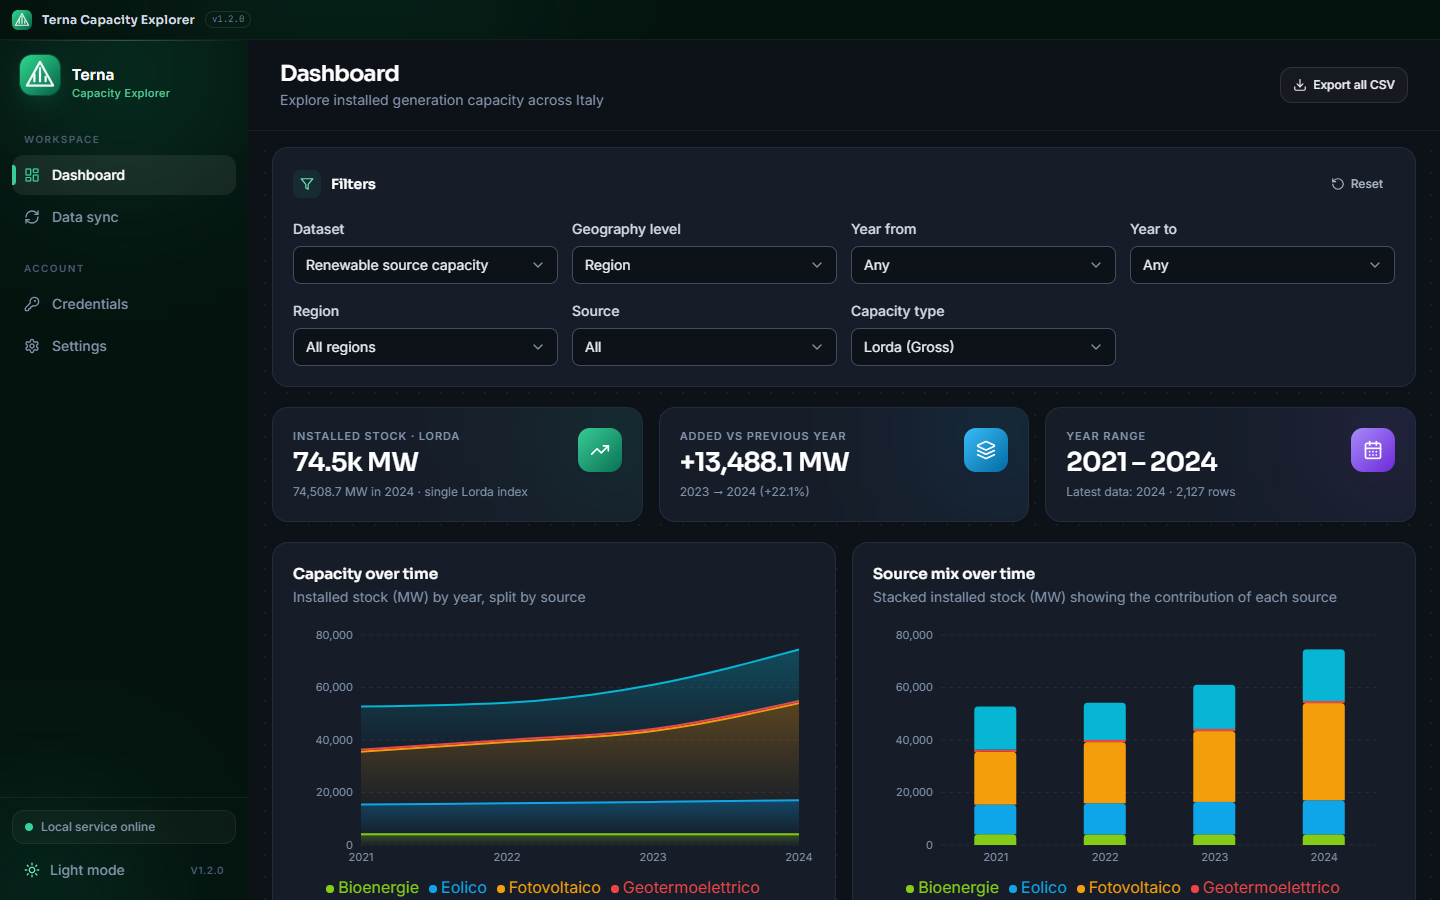
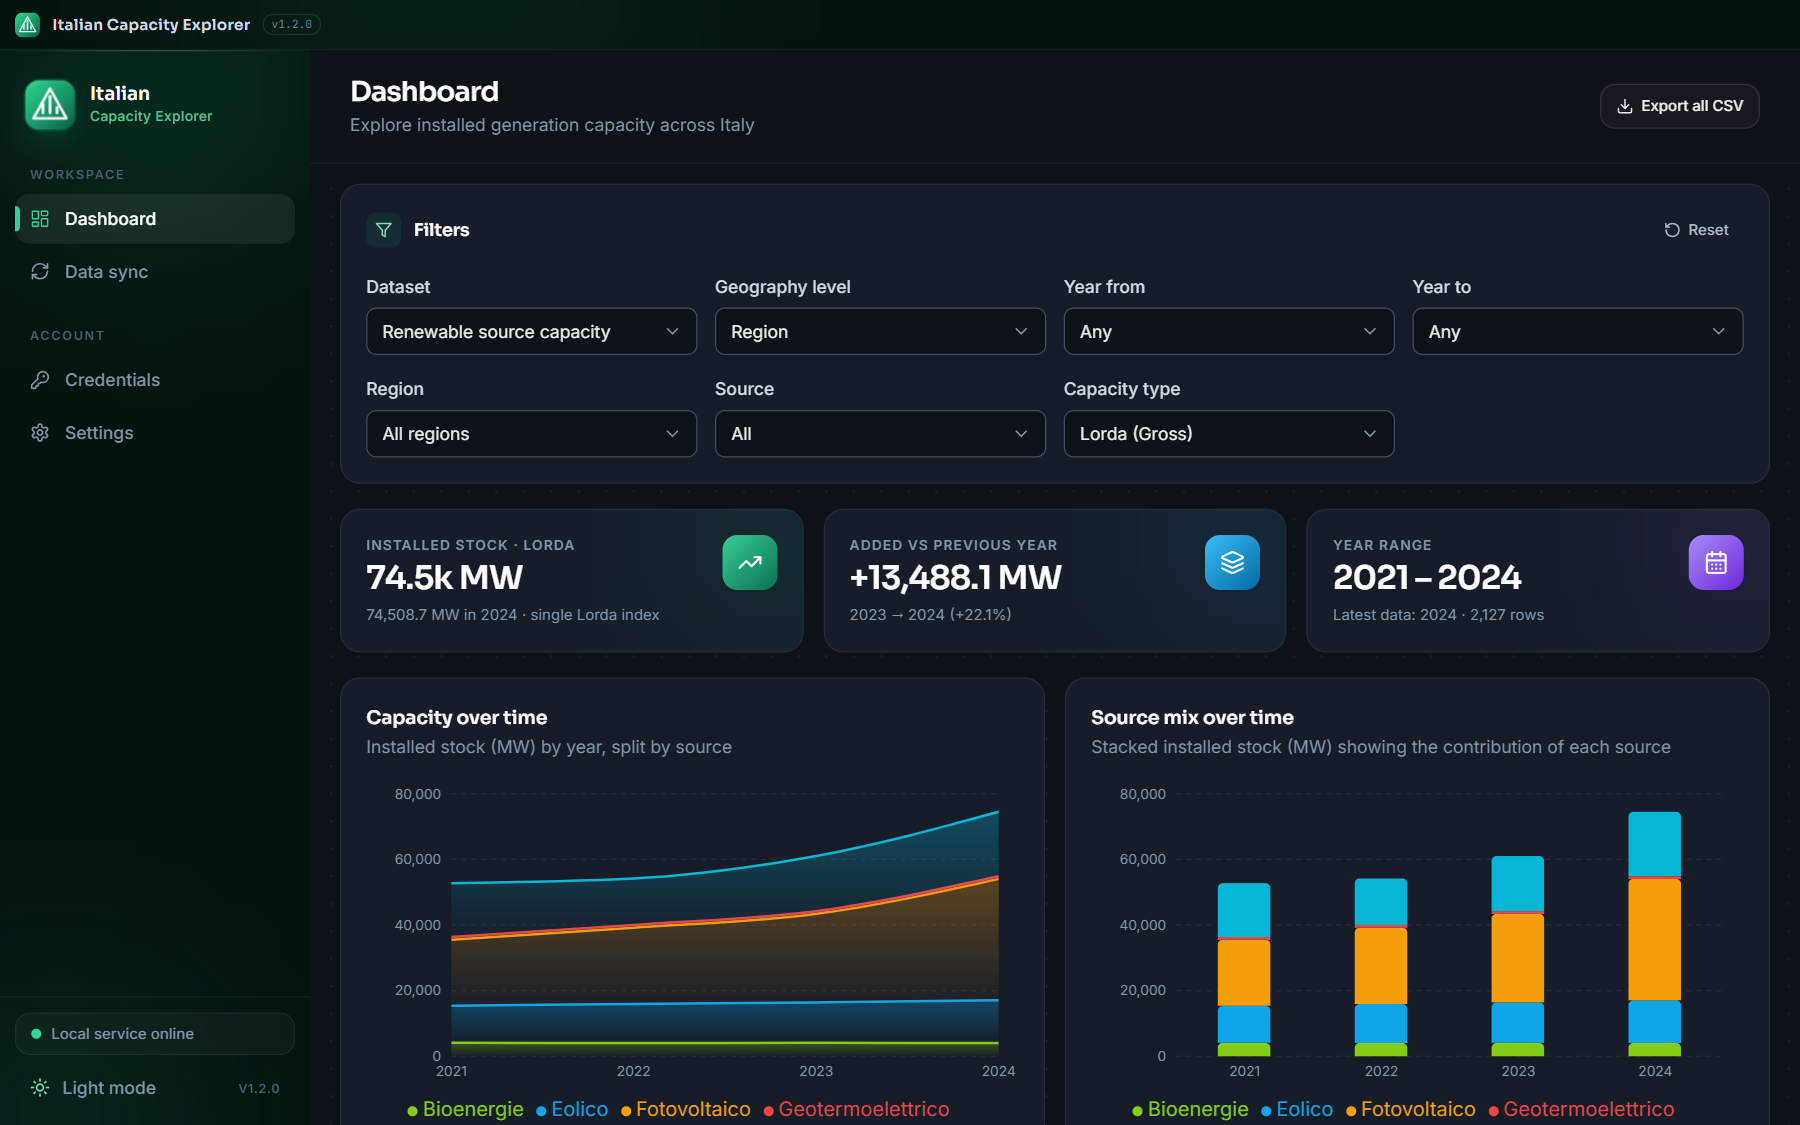
Rename to Italian Capacity Explorer, MIT license, data-correctness and UI fixes
Backend: parse dot-decimal strings from /installed-capacity correctly (values were inflated by 10^decimals), migrate the app data folder and the stored client secret to the new product name, add settings tests. Frontend: define the missing header-glass/skeleton/card-hover classes, re-arm the sync poll loop on remount, drop stale copy. Repo: MIT LICENSE, renamed package/product/identifier, refreshed screenshots.

diff --git a/index.html b/index.html
@@ -4,8 +4,8 @@
     <meta charset="UTF-8" />
     <link rel="icon" type="image/svg+xml" href="/favicon.svg" />
     <meta name="viewport" content="width=device-width, initial-scale=1.0" />
-    <meta name="description" content="Terna Capacity Explorer — explore installed generation capacity across Italy, locally on your desktop." />
-    <title>Terna Capacity Explorer</title>
+    <meta name="description" content="Italian Capacity Explorer — explore installed generation capacity across Italy, locally on your desktop." />
+    <title>Italian Capacity Explorer</title>
   </head>
   <body>
     <div id="root"></div>

diff --git a/src/pages/SettingsPage.tsx b/src/pages/SettingsPage.tsx
@@ -93,7 +93,7 @@ export function SettingsPage() {
             <p className="flex items-start gap-2.5">
               <Info className="mt-0.5 h-4 w-4 shrink-0 text-brand-600 dark:text-brand-400" />
               <span>
-                Terna Capacity Explorer lets you explore <em>installed generation capacity</em> across Italy&apos;s
+                Italian Capacity Explorer lets you explore <em>installed generation capacity</em> across Italy&apos;s
                 regions and provinces — aggregated by the Terna Developer API and stored locally on your machine.
               </span>
             </p>

diff --git a/src/pages/DashboardPage.tsx b/src/pages/DashboardPage.tsx
@@ -66,8 +66,8 @@ export function DashboardPage() {
   const handleExportAll = async () => {
     try {
       const text = await api.exportCsv(apiFilters);
-      downloadString(text, "terna-installed-capacity.csv", "text/csv;charset=utf-8");
-      toast.success("CSV exported", "terna-installed-capacity.csv is in your downloads");
+      downloadString(text, "italian-installed-capacity.csv", "text/csv;charset=utf-8");
+      toast.success("CSV exported", "italian-installed-capacity.csv is in your downloads");
     } catch (e) {
       toast.error("Export failed", (e as Error).message);
     }

diff --git a/src/pages/OnboardingPage.tsx b/src/pages/OnboardingPage.tsx
@@ -52,7 +52,7 @@ export function OnboardingPage() {
             <h1 className="mt-7 font-display text-[28px] font-semibold leading-tight tracking-tight text-white">
               Welcome to{" "}
               <span className="bg-gradient-to-r from-brand-300 to-emerald-200 bg-clip-text text-transparent">
-                Terna Capacity Explorer
+                Italian Capacity Explorer
               </span>
             </h1>
             <p className="mt-3 max-w-sm text-sm leading-relaxed text-ink-300">

diff --git a/src/components/layout/Sidebar.tsx b/src/components/layout/Sidebar.tsx
@@ -113,7 +113,7 @@ export function Sidebar() {
           <BrandMark className="h-10 w-10 rounded-xl shadow-glow" />
         </div>
         <div className="min-w-0">
-          <p className="font-display text-[15px] font-semibold leading-tight text-white">Terna</p>
+          <p className="font-display text-[15px] font-semibold leading-tight text-white">Italian</p>
           <p className="truncate text-[11px] font-medium tracking-wide text-brand-300/80">
             Capacity Explorer
           </p>

diff --git a/src/components/ui/BrandMark.tsx b/src/components/ui/BrandMark.tsx
@@ -1,6 +1,6 @@
 export function BrandMark({ className }: { className?: string }) {
   return (
-    <svg viewBox="0 0 64 64" className={className} role="img" aria-label="Terna Capacity Explorer">
+    <svg viewBox="0 0 64 64" className={className} role="img" aria-label="Italian Capacity Explorer">
       <defs>
         <linearGradient id="brandmark-g" x1="0" y1="0" x2="1" y2="1">
           <stop offset="0" stopColor="#2fd98f" />

diff --git a/src/components/layout/TitleBar.tsx b/src/components/layout/TitleBar.tsx
@@ -77,7 +77,7 @@ export function TitleBar() {
           data-tauri-drag-region
           className="truncate font-display text-xs font-semibold tracking-wide text-ink-200"
         >
-          Terna Capacity Explorer
+          Italian Capacity Explorer
         </span>
         <span
           data-tauri-drag-region

diff --git a/backend/src/terna_backend/settings.py b/backend/src/terna_backend/settings.py
@@ -8,7 +8,21 @@ from pathlib import Path
 
 import keyring
 
-SERVICE_NAME = "terna-installed-capacity"
+SERVICE_NAME = "italian-capacity-explorer"
+#: Names used before the app was renamed. Kept so an existing install keeps its
+#: credentials and cached data instead of silently starting from scratch.
+LEGACY_SERVICE_NAME = "terna-installed-capacity"
+APP_DIR_NAME = "ItalianCapacityExplorer"
+LEGACY_APP_DIR_NAME = "TernaInstalledCapacity"
+
+
+def _app_data_root() -> Path:
+    system = platform.system().lower()
+    if system == "windows":
+        return Path(os.getenv("APPDATA", Path.home() / "AppData" / "Roaming"))
+    if system == "darwin":
+        return Path.home() / "Library" / "Application Support"
+    return Path(os.getenv("XDG_DATA_HOME", Path.home() / ".local" / "share"))
 
 
 def app_data_dir() -> Path:
@@ -16,14 +30,15 @@ def app_data_dir() -> Path:
     if override:
         return Path(override).expanduser().resolve()
 
-    system = platform.system().lower()
-    if system == "windows":
-        base = Path(os.getenv("APPDATA", Path.home() / "AppData" / "Roaming"))
-    elif system == "darwin":
-        base = Path.home() / "Library" / "Application Support"
-    else:
-        base = Path(os.getenv("XDG_DATA_HOME", Path.home() / ".local" / "share"))
-    return base / "TernaInstalledCapacity"
+    root = _app_data_root()
+    target = root / APP_DIR_NAME
+    legacy = root / LEGACY_APP_DIR_NAME
+    if not target.exists() and legacy.exists():
+        try:
+            legacy.rename(target)  # one-time migration, same parent directory
+        except OSError:
+            return legacy
+    return target
 
 
 @dataclass(frozen=True)
@@ -61,10 +76,11 @@ class SettingsStore:
         client_id = payload.pop("client_id", None)
         self.settings_path.write_text(json.dumps(payload, indent=2), encoding="utf-8")
         if client_id:
-            try:
-                keyring.delete_password(SERVICE_NAME, client_id)
-            except keyring.errors.PasswordDeleteError:
-                pass
+            for service in (SERVICE_NAME, LEGACY_SERVICE_NAME):
+                try:
+                    keyring.delete_password(service, client_id)
+                except (keyring.errors.PasswordDeleteError, keyring.errors.KeyringError):
+                    pass
 
     def get_client_secret(self, client_id: str | None = None) -> str | None:
         env_secret = os.getenv("TERNA_CLIENT_SECRET")
@@ -74,7 +90,18 @@ class SettingsStore:
         if not resolved_client_id:
             return None
         try:
-            return keyring.get_password(SERVICE_NAME, resolved_client_id)
+            secret = keyring.get_password(SERVICE_NAME, resolved_client_id)
+            if secret:
+                return secret
+            # Credentials stored before the app was renamed: migrate them to
+            # the new service name on first read.
+            legacy = keyring.get_password(LEGACY_SERVICE_NAME, resolved_client_id)
+            if legacy:
+                try:
+                    keyring.set_password(SERVICE_NAME, resolved_client_id, legacy)
+                except keyring.errors.KeyringError:
+                    pass
+            return legacy
         except keyring.errors.KeyringError:
             return None
 

diff --git a/backend/tests/test_settings.py b/backend/tests/test_settings.py
@@ -1,0 +1,49 @@
+"""Settings/credential migration tests: the app was renamed, existing installs
+must keep their cached data and their stored client secret."""
+
+from backend.src.terna_backend import settings as settings_module
+
+
+def test_app_data_dir_migrates_legacy_folder(monkeypatch, tmp_path) -> None:
+    monkeypatch.delenv("TERNA_APP_DATA_DIR", raising=False)
+    monkeypatch.setattr(settings_module, "_app_data_root", lambda: tmp_path)
+    legacy = tmp_path / "TernaInstalledCapacity"
+    legacy.mkdir()
+    (legacy / "settings.json").write_text("{}", encoding="utf-8")
+
+    resolved = settings_module.app_data_dir()
+
+    assert resolved == tmp_path / "ItalianCapacityExplorer"
+    assert (resolved / "settings.json").exists()
+    assert not legacy.exists()
+
+
+def test_app_data_dir_keeps_new_folder_when_both_exist(monkeypatch, tmp_path) -> None:
+    monkeypatch.delenv("TERNA_APP_DATA_DIR", raising=False)
+    monkeypatch.setattr(settings_module, "_app_data_root", lambda: tmp_path)
+    (tmp_path / "TernaInstalledCapacity").mkdir()
+    current = tmp_path / "ItalianCapacityExplorer"
+    current.mkdir()
+
+    assert settings_module.app_data_dir() == current
+    assert (tmp_path / "TernaInstalledCapacity").exists()
+
+
+def test_client_secret_is_migrated_from_the_legacy_keyring_service(monkeypatch, tmp_path) -> None:
+    monkeypatch.delenv("TERNA_CLIENT_SECRET", raising=False)
+    store = settings_module.SettingsStore(tmp_path)
+    (tmp_path / "settings.json").write_text('{"client_id": "abc"}', encoding="utf-8")
+    written: dict[str, str] = {}
+
+    def fake_get_password(service: str, user: str) -> str | None:
+        return "s3cret" if service == settings_module.LEGACY_SERVICE_NAME else None
+
+    monkeypatch.setattr(settings_module.keyring, "get_password", fake_get_password)
+    monkeypatch.setattr(
+        settings_module.keyring,
+        "set_password",
+        lambda service, user, value: written.update({service: value}),
+    )
+
+    assert store.get_client_secret() == "s3cret"
+    assert written == {settings_module.SERVICE_NAME: "s3cret"}

diff --git a/backend/run_backend.py b/backend/run_backend.py
@@ -22,10 +22,11 @@ def _redirect_streams() -> None:
     if not getattr(sys, "frozen", False):
         return
     try:
-        base = os.environ.get("APPDATA") or os.path.expanduser("~")
-        log_dir = os.path.join(base, "TernaInstalledCapacity")
-        os.makedirs(log_dir, exist_ok=True)
-        log_path = os.path.join(log_dir, "backend.log")
+        from terna_backend.settings import app_data_dir
+
+        log_dir = app_data_dir()
+        log_dir.mkdir(parents=True, exist_ok=True)
+        log_path = log_dir / "backend.log"
         stream = open(log_path, "a", encoding="utf-8")
         sys.stdout = stream
         sys.stderr = stream

diff --git a/backend/src/terna_backend/api.py b/backend/src/terna_backend/api.py
@@ -197,5 +197,5 @@ def export_csv(filters: RecordFilters = Depends(filters_from_query)) -> Response
     return Response(
         content=csv_data,
         media_type="text/csv",
-        headers={"Content-Disposition": 'attachment; filename="terna-installed-capacity.csv"'},
+        headers={"Content-Disposition": 'attachment; filename="italian-installed-capacity.csv"'},
     )

diff --git a/README.md b/README.md
@@ -1,4 +1,4 @@
-# Terna Capacity Explorer
+# Italian Capacity Explorer
 
 A local-first Windows desktop application to explore **Italy's installed generation
 capacity** published through the [Terna Developer API](https://developer.terna.it).
@@ -61,7 +61,7 @@ flowchart LR
     Shell["Tauri v2 shell (Rust)<br/>src-tauri/"]
     Sidecar["FastAPI sidecar<br/>backend/ → app-backend.exe"]
   end
-  Cache[("SQLite cache<br/>%APPDATA%/TernaInstalledCapacity")]
+  Cache[("SQLite cache<br/>%APPDATA%/ItalianCapacityExplorer")]
   KC[("Windows Credential Manager<br/>client secret")]
   Terna["Terna Developer API<br/>api.terna.it"]
 
@@ -115,7 +115,7 @@ side by side and no fixed port is ever exposed. The frontend resolves it at runt
 
 ```powershell
 git clone <your-fork-url>
-cd terna-capacity-explorer
+cd italian-capacity-explorer
 
 # 1. frontend dependencies
 npm install
@@ -187,18 +187,22 @@ Backend (environment):
 | --- | --- | --- |
 | `TERNA_CLIENT_ID` / `TERNA_CLIENT_SECRET` | – | credentials for headless/dev runs (the GUI stores them itself) |
 | `TERNA_MIN_REQUEST_INTERVAL` | `1.0` | minimum seconds between Terna API calls (raise it if you get `429`) |
-| `TERNA_APP_DATA_DIR` | `%APPDATA%\TernaInstalledCapacity` | database, settings and `backend.log` |
+| `TERNA_APP_DATA_DIR` | `%APPDATA%\ItalianCapacityExplorer` | database, settings and `backend.log` |
 | `TERNA_PORT` | `8765` | override the port passed by the shell |
 
 Data written at runtime:
 
 | Path | Content |
 | --- | --- |
-| `%APPDATA%\TernaInstalledCapacity\terna_cache.sqlite` | local cache (delete it to force a full re-sync) |
-| `%APPDATA%\TernaInstalledCapacity\settings.json` | non-secret settings (client id, database path) |
-| `%APPDATA%\TernaInstalledCapacity\backend.log` | sidecar stdout/stderr |
-| `%LOCALAPPDATA%\com.terna.capacityexplorer\logs\terna-app.log` | shell logs |
-| Windows Credential Manager → `terna-installed-capacity` | the client **secret** |
+| `%APPDATA%\ItalianCapacityExplorer\terna_cache.sqlite` | local cache (delete it to force a full re-sync) |
+| `%APPDATA%\ItalianCapacityExplorer\settings.json` | non-secret settings (client id, database path) |
+| `%APPDATA%\ItalianCapacityExplorer\backend.log` | sidecar stdout/stderr |
+| `%LOCALAPPDATA%\com.italiancapacityexplorer.app\logs\terna-app.log` | shell logs |
+| Windows Credential Manager → `italian-capacity-explorer` | the client **secret** |
+
+Builds released before the rename used `TernaInstalledCapacity` and the
+`terna-installed-capacity` credential entry; the backend migrates both on first
+launch (the data folder is moved, the secret is copied to the new entry).
 
 ## Backend HTTP API
 
@@ -313,7 +317,7 @@ Tauri then signs the app executable, the uninstaller and the NSIS installer
 
 | Symptom | Cause / fix |
 | --- | --- |
-| “The local data service is not responding” | the sidecar is still starting (up to a few seconds) or crashed — check `%APPDATA%\TernaInstalledCapacity\backend.log` and `%LOCALAPPDATA%\com.terna.capacityexplorer\logs\terna-app.log` |
+| “The local data service is not responding” | the sidecar is still starting (up to a few seconds) or crashed — check `%APPDATA%\ItalianCapacityExplorer\backend.log` and `%LOCALAPPDATA%\com.italiancapacityexplorer.app\logs\terna-app.log` |
 | Sync reports many skipped steps | Terna rate limiting (`429`/`403 Developer Over Qps`); they are retried, then reported as `failed_steps` — re-run the sync, already stored steps are upserted |
 | Sync reports many empty steps | years or combinations the API does not publish (for example `/installed-capacity` currently returns data only for a subset of years) |
 | Charts show nothing for a dataset | that dataset was never downloaded: run a sync covering its years |
@@ -351,7 +355,8 @@ Issues and pull requests are welcome.
 
 ## License
 
-No license has been chosen yet, which means **all rights reserved** by default.
-Until a license is added, the code may be read and forked privately but not
-redistributed or reused. Opening an issue to discuss MIT vs Apache-2.0 (or a
-proprietary model) is the next step before the first public release.
+[MIT](LICENSE) © 2026 Tommaso D'Acunzio.
+
+The Terna Developer API, the data it publishes and the "Terna" trademark belong to
+Terna S.p.A.; this project only consumes the public API with the user's own
+credentials and is not affiliated with or endorsed by Terna S.p.A.
